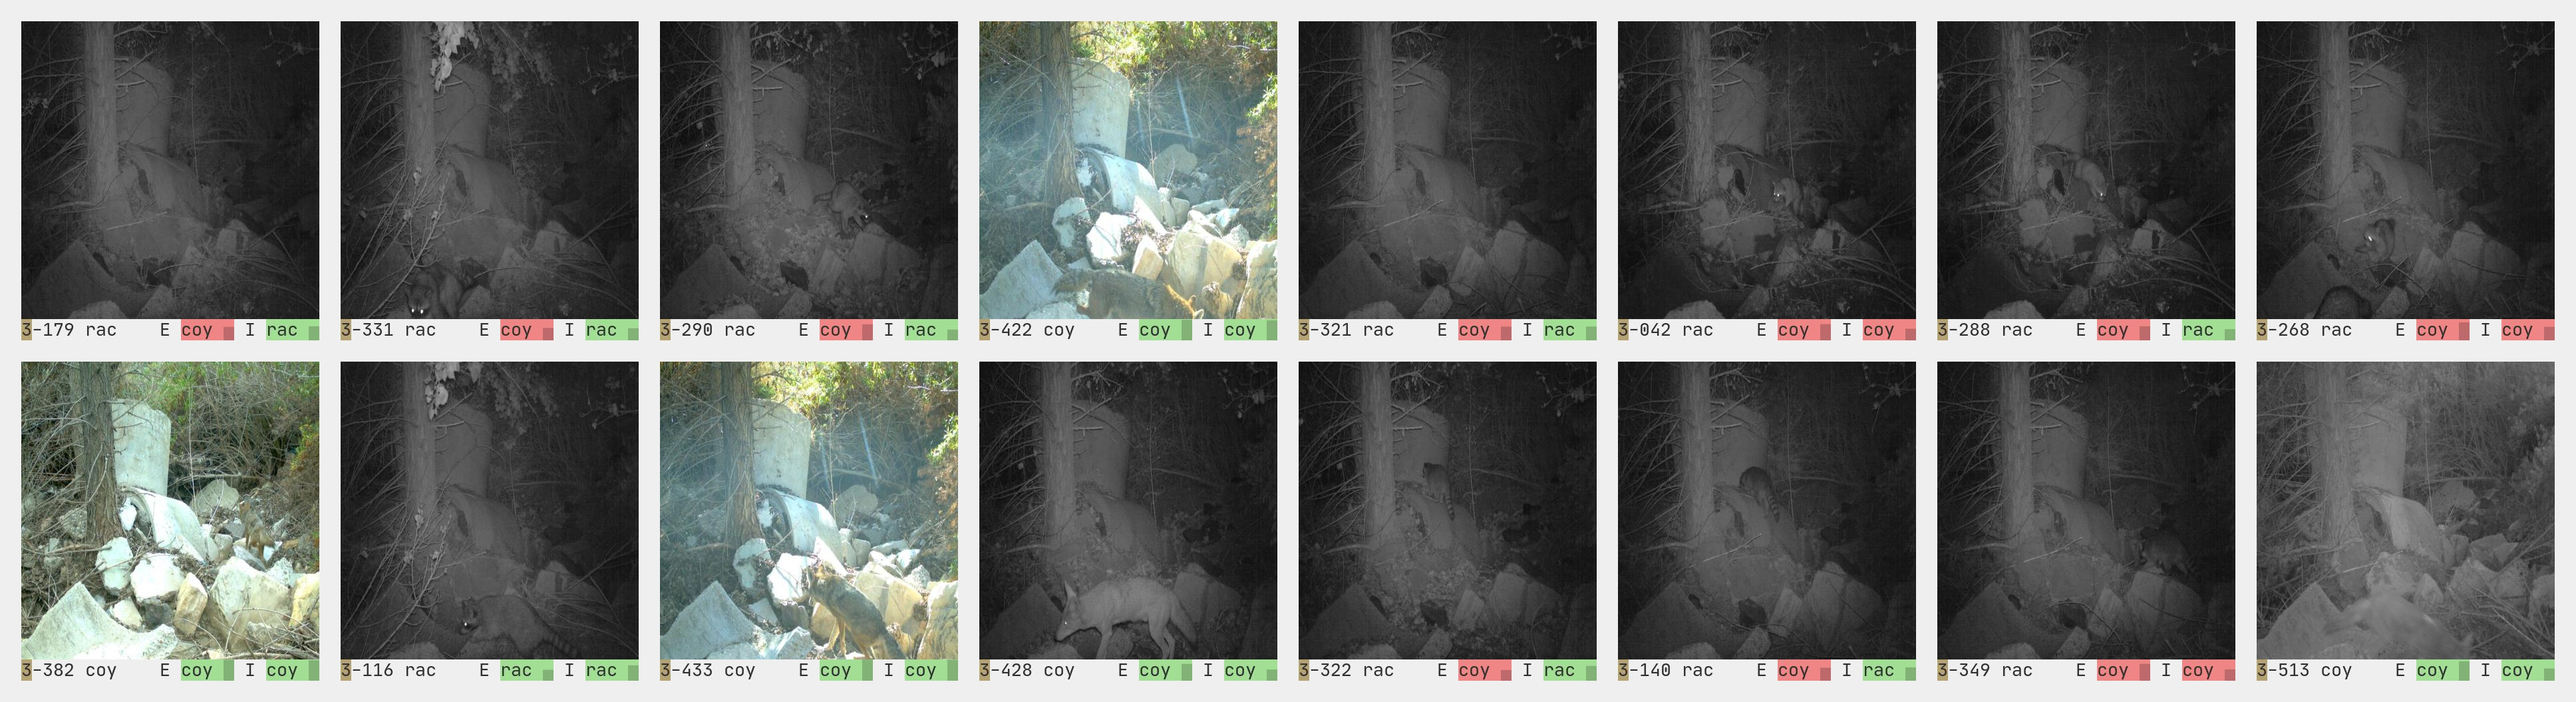
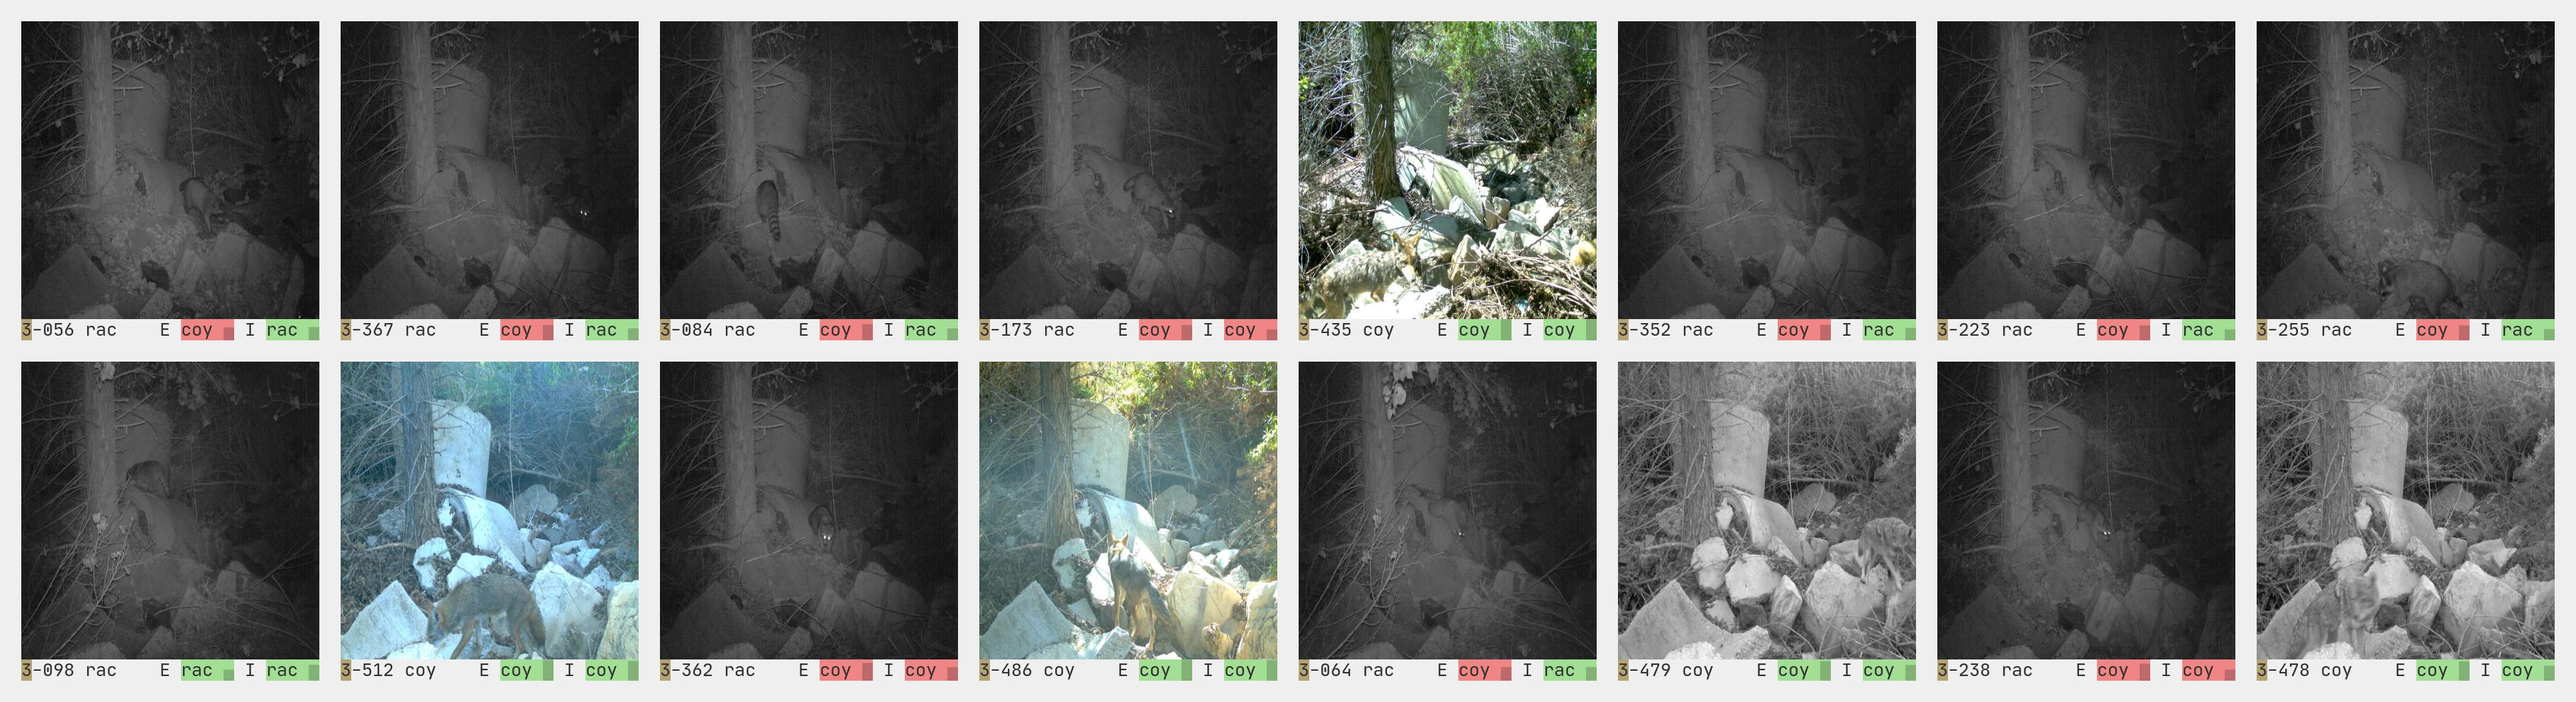
use test example across panels

diff --git a/build_index.js b/build_index.js
@@ -918,10 +918,10 @@ if (args.includes('4')) {
 
   let images = [
     ..._.sampleSize(test_wrong, 3),
-    ..._.sampleSize(test_irm_only_right, 7),
+    ..._.sampleSize(test_irm_only_right, 6),
     ..._.sampleSize(test_right, 6),
   ]
-  images = _.shuffle(images)
+  images = [output_with_indexes[1667], ..._.shuffle(images)]
   for (let i = 0; i < images.length; i++) {
     let image = images[i]
     let [bx, by] = panel_image_slots[i]
@@ -1032,11 +1032,73 @@ if (args.includes('5')) {
 
   let promises = []
 
+  let test1 = output_with_indexes[1667]
+  for (let i = 0; i < 4; i++) {
+    let image = test1
+    let index = image.index
+    let [bx, by] = panel_image_slots[i + 0]
+    let x = bx * size.x + offset_x
+    let y = by * size.y + offset_y
+    let path = 'data' + image.image_path
+
+    let env = getEnv(path)
+    let label = getLabel(path)
+    let long_label = getLongLabel(path)
+
+    let file_index = [Math.floor(index / 100), index % 100]
+    let filename = 'outa' + alphabet[file_index[0]] + '.json'
+    let file_json = JSON.parse(fs.readFileSync('data/' + filename, 'utf-8'))
+    let og_item = file_json[file_index[1]]
+
+    if (i === 0) {
+      promises.push(placeSingleImage(cx, path, x, y))
+      cx.fillStyle = env_colors[env]
+      cx.fillRect(x, y + size.y - y_adjust - 8, 1 * 8, 16)
+      cx.fillStyle = color.gray_text
+      cx.fillText(env, x, y + size.y - y_adjust)
+      x += 1 * 8
+      cx.fillText(
+        '-' + image.local_index.toString().padStart(3, '0'),
+        x,
+        y + size.y - y_adjust
+      )
+      x += 5 * 8
+      cx.fillText(long_label, x, y + size.y - y_adjust)
+    } else if (i === 1) {
+      let superpixel_num = og_item.irm.coefficients.length
+      promises.push(
+        placeSingleImageAndOutline(cx, path, x, y, og_item.irm.segments)
+      )
+      let text = superpixel_num + ' superpixels'
+      let w = cx.measureText(text).width
+      let rx = size.x - w - 16
+      cx.fillText(text, x + rx, y + size.y - y_adjust)
+    } else {
+      let mask_num =
+        4 + Math.floor(Math.random() * (og_item.irm.coefficients.length / 2))
+      promises.push(
+        placeSingleImagePermutation(
+          cx,
+          path,
+          x,
+          y,
+          og_item.irm.segments,
+          og_item.irm.coefficients,
+          mask_num
+        )
+      )
+      let text = mask_num + ' masked'
+      let w = cx.measureText(text).width
+      let rx = size.x - w - 16
+      cx.fillText(text, x + rx, y + size.y - y_adjust)
+    }
+  }
+
   let samp43 = _.sample(train_43)
   for (let i = 0; i < 4; i++) {
     let image = samp43
     let index = image.index
-    let [bx, by] = panel_image_slots[i]
+    let [bx, by] = panel_image_slots[i + 4]
     let x = bx * size.x + offset_x
     let y = by * size.y + offset_y
     let path = 'data' + image.image_path
@@ -1097,68 +1159,6 @@ if (args.includes('5')) {
   let samp46 = _.sample(train_46)
   for (let i = 0; i < 4; i++) {
     let image = samp46
-    let index = image.index
-    let [bx, by] = panel_image_slots[i + 4]
-    let x = bx * size.x + offset_x
-    let y = by * size.y + offset_y
-    let path = 'data' + image.image_path
-
-    let env = getEnv(path)
-    let label = getLabel(path)
-    let long_label = getLongLabel(path)
-
-    let file_index = [Math.floor(index / 100), index % 100]
-    let filename = 'outa' + alphabet[file_index[0]] + '.json'
-    let file_json = JSON.parse(fs.readFileSync('data/' + filename, 'utf-8'))
-    let og_item = file_json[file_index[1]]
-
-    if (i === 0) {
-      promises.push(placeSingleImage(cx, path, x, y))
-      cx.fillStyle = env_colors[env]
-      cx.fillRect(x, y + size.y - y_adjust - 8, 1 * 8, 16)
-      cx.fillStyle = color.gray_text
-      cx.fillText(env, x, y + size.y - y_adjust)
-      x += 1 * 8
-      cx.fillText(
-        '-' + image.local_index.toString().padStart(3, '0'),
-        x,
-        y + size.y - y_adjust
-      )
-      x += 5 * 8
-      cx.fillText(long_label, x, y + size.y - y_adjust)
-    } else if (i === 1) {
-      let superpixel_num = og_item.irm.coefficients.length
-      promises.push(
-        placeSingleImageAndOutline(cx, path, x, y, og_item.irm.segments)
-      )
-      let text = superpixel_num + ' superpixels'
-      let w = cx.measureText(text).width
-      let rx = size.x - w - 16
-      cx.fillText(text, x + rx, y + size.y - y_adjust)
-    } else {
-      let mask_num =
-        4 + Math.floor(Math.random() * (og_item.irm.coefficients.length / 2))
-      promises.push(
-        placeSingleImagePermutation(
-          cx,
-          path,
-          x,
-          y,
-          og_item.irm.segments,
-          og_item.irm.coefficients,
-          mask_num
-        )
-      )
-      let text = mask_num + ' masked'
-      let w = cx.measureText(text).width
-      let rx = size.x - w - 16
-      cx.fillText(text, x + rx, y + size.y - y_adjust)
-    }
-  }
-
-  let test1 = _.sample(test)
-  for (let i = 0; i < 4; i++) {
-    let image = test1
     let index = image.index
     let [bx, by] = panel_image_slots[i + 8]
     let x = bx * size.x + offset_x
@@ -1317,7 +1317,7 @@ if (args.includes('6')) {
     return erm_prediction === label && irm_prediction === label
   })
 
-  let test1 = _.sample(test_right)
+  let test1 = output_with_indexes[1667]
   for (let i = 0; i < 8; i++) {
     let image = test1
     let index = image.index
@@ -1510,12 +1510,12 @@ if (args.includes('7')) {
   let promises = []
 
   let images = _.sampleSize(output_with_indexes, panel_image_num / 2)
-  let shortlist_test = [1838, 1750, 1851, 1446, 2044, 2078, 1662, 1347]
+  let shortlist_test = [1667, 1446, 1838, 1347, 2044, 1750, 2078, 1851]
   images = shortlist_test.map(i => output_with_indexes[i])
   for (let i = 0; i < images.length; i++) {
     let image = images[i]
     let index = image.index
-    let [bx, by] = panel_image_slots[i]
+    let [bx, by] = panel_image_slots[i * 2]
     let x = bx * size.x + offset_x
     let y = by * size.y + offset_y
     let path = 'data' + image.image_path
@@ -1546,6 +1546,7 @@ if (args.includes('7')) {
         12
       )
     )
+
     cx.fillStyle = env_colors[env]
     cx.fillRect(x, y + size.y - y_adjust - 8, 1 * 8, 16)
     cx.fillStyle = color.gray_text
@@ -1582,9 +1583,8 @@ if (args.includes('7')) {
       image.erm.prob * 16
     )
 
+    x += 24
     // IRM
-    y = by * size.y + size.y + offset_y
-    x = bx * size.x + offset_x
     promises.push(
       placeSingleImageHighlight(
         cx,
@@ -1596,20 +1596,21 @@ if (args.includes('7')) {
         12
       )
     )
-    cx.fillStyle = env_colors[env]
-    cx.fillRect(x, y + size.y - y_adjust - 8, 1 * 8, 16)
-    cx.fillStyle = color.gray_text
-    cx.fillText(env, x, y + size.y - y_adjust)
-    x += 1 * 8
-    cx.fillText(
-      '-' + image.local_index.toString().padStart(3, '0'),
-      x,
-      y + size.y - y_adjust
-    )
-    x += 5 * 8
-    cx.fillText(label, x, y + size.y - y_adjust)
+    // cx.fillStyle = env_colors[env]
+    // cx.fillRect(x, y + size.y - y_adjust - 8, 1 * 8, 16)
+    // cx.fillStyle = color.gray_text
+    // cx.fillText(env, x, y + size.y - y_adjust)
+    // x += 1 * 8
+    // cx.fillText(
+    //   '-' + image.local_index.toString().padStart(3, '0'),
+    //   x,
+    //   y + size.y - y_adjust
+    // )
+    // x += 5 * 8
+    // cx.fillText(label, x, y + size.y - y_adjust)
 
-    x += 13 * 8
+    // x += 13 * 8
+    x += 19 * 8
     cx.fillStyle = color.gray_text
     cx.fillText('IRM', x, y + size.y - y_adjust)
 
